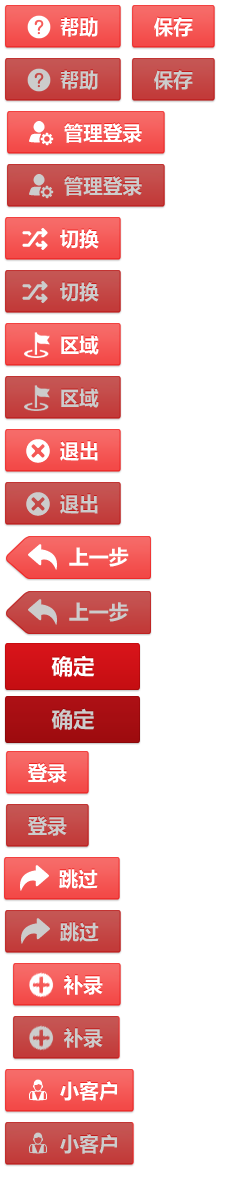
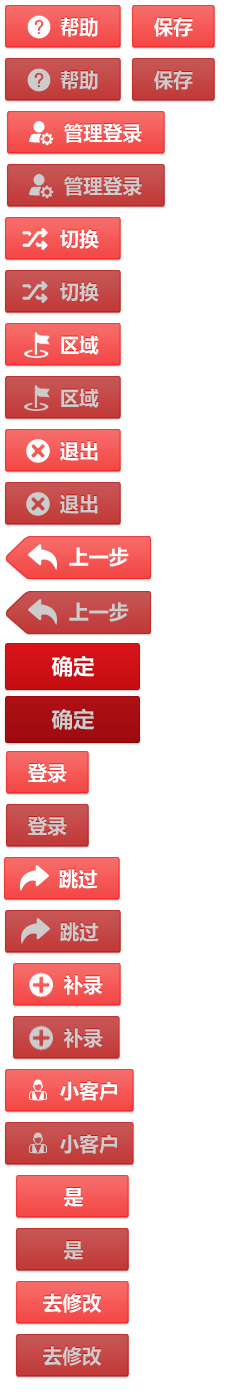
重新调整海底捞项目样式

diff --git a/projects/haidilao/main_jieshu.html b/projects/haidilao/main_jieshu.html
@@ -21,15 +21,14 @@
 				<h3>文泽海<span class="space"></span>0142<span class="space"></span>厨师 </h3>
 			</div>
 			<div class="con_bd">
-				<a href="end_xiezhu_input.html" class="btn left xiezhu">结束协岗
+				<a href="end_xiezhu_input.html" class="btn left xiezhu">
+					<span class="btnTitle">结束协岗</span><br>
+					<span class="info">在岗时长：2小时39分</span><br>
+					<span class="info">当前岗位：备菜备菜备菜备菜备菜备菜备菜备菜备菜备菜备菜备菜备菜备菜备菜备菜备菜备菜备菜备菜备菜备菜备菜</span>
 				</a>
 				<a href="jijian.html" class="btn left jijian">计件工资</a>
 				<a href="alert_xiagang_suc.html" class="btn left xiagang">下岗</a>
-				<div class="infoBox">
 
-					<span class="info">在岗时长：2小时39分</span>
-					<span class="info">当前岗位：备菜备菜备菜备菜备菜备菜备菜备菜备菜备菜备菜备菜备菜备菜备菜备菜备菜备菜备菜备菜备菜备菜备菜</span>
-				</div>
 			</div>
 		</div>
 		<!--主界面结束-->

diff --git a/projects/haidilao/css/alert_shanggang_suc.css b/projects/haidilao/css/alert_shanggang_suc.css
@@ -58,6 +58,35 @@ body {
 	background: url(../img/btn_jingling.png) no-repeat 0 -905px;
 }
 
+/*内容按钮*/
+.con_bd .btnBox .yes {
+	/*display: none;*/
+	width: 144px;
+	height: 53px;
+	background: url(../img/btn_jingling.png) no-repeat 0 -1170px;
+	margin-top: 30px;
+	margin-bottom: 15px;
+}
+.con_bd .btnBox .yes:active {
+	background: url(../img/btn_jingling.png) no-repeat 0 -1223px;
+}
+
+.con_bd .btnBox .edit {
+	/*display: none;*/
+	width: 144px;
+	height: 53px;
+	background: url(../img/btn_jingling.png) no-repeat 0 -1276px;
+	margin-top: 30px;
+	margin-bottom: 15px;
+}
+
+.con_bd .btnBox .edit:active {
+	background: url(../img/btn_jingling.png) no-repeat 0 -1329px;
+}
+
+
+
+
 /*内容部分*/
 .content .con_bd {
 	width: 100%;

diff --git a/projects/haidilao/css/main_jieshu.css b/projects/haidilao/css/main_jieshu.css
@@ -97,19 +97,15 @@ body {
 }
 
 /*主界面三个大按钮*/
-.content .con_bd .infoBox {
-	position: absolute;
-	top: 280px;
-	left: 56px;
-	text-align: center;
-	max-width: 280px;
-	max-height: 160px;
-	overflow: hidden;
+
+.content .con_bd .btnTitle {
+	display: inline-block;
+	margin-top: 180px;
 }
-.content .con_bd span.info {
-	display: block;
-	font-size: 20px;
-	color: #FFFFFF;
+.content .con_bd .info {
+	color: #ffffff;
+	display: inline-block;
+	font-size: 16px;
 }
 .content .con_bd .btn {
 	display: block;
@@ -124,7 +120,6 @@ body {
 	width: 35%;
 	margin-left: 5%;
 	height: 430px;
-	line-height: 430px;
 	background:#19bd9b url(../img/xiezhu_bg.png) no-repeat center 76px;
 }
 .content .con_bd .xiezhu:active {

diff --git a/projects/haidilao/alert_shanggang_suc.html b/projects/haidilao/alert_shanggang_suc.html
@@ -22,7 +22,7 @@
 			</div>
 			<div class="con_bd">
 				<h2>上岗成功</h2>
-				<dl>
+				<dl class="clearfix">
 					<dt>姓名：</dt>
 					<dd>文泽海</dd>
 					<br />
@@ -32,6 +32,10 @@
 					<dt>上岗时间：</dt>
 					<dd>2017年10月31日  9:00</dd>
 				</dl>
+				<div class="btnBox">
+					<a class="btn yes" href="#"></a>
+					<a class="btn edit" href="#"></a>
+				</div>
 			</div>
 			<div class="con_ft">
 				<p class="info"><span>2S</span>&nbsp;&nbsp;后自动返回主界面</p>
